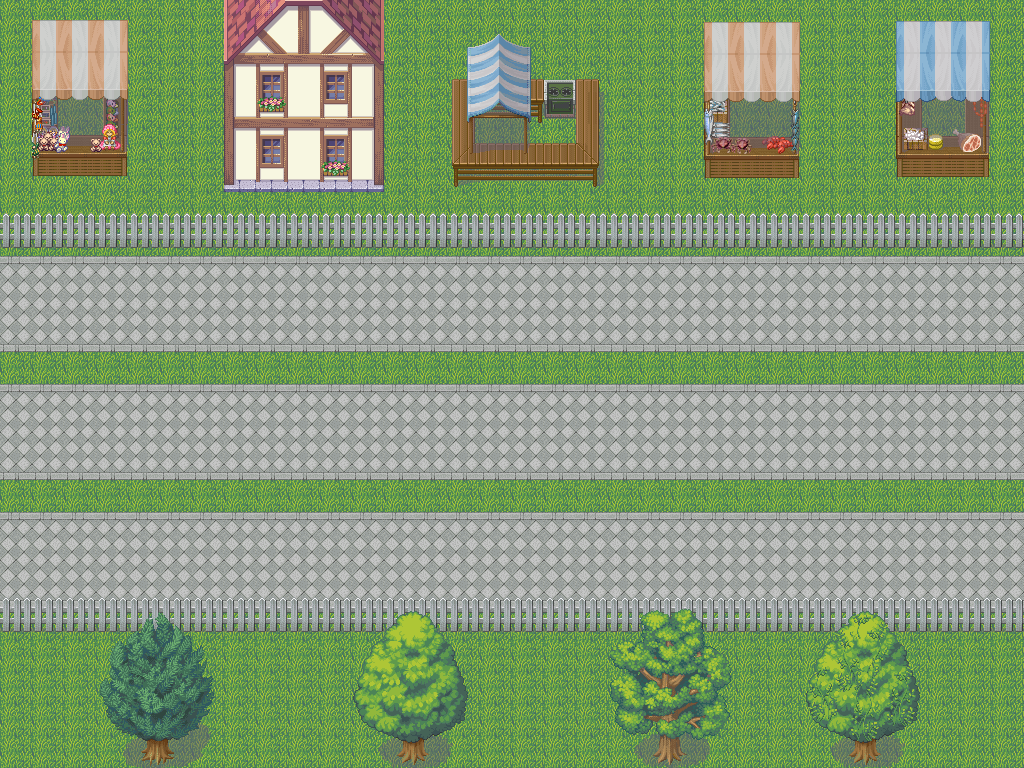
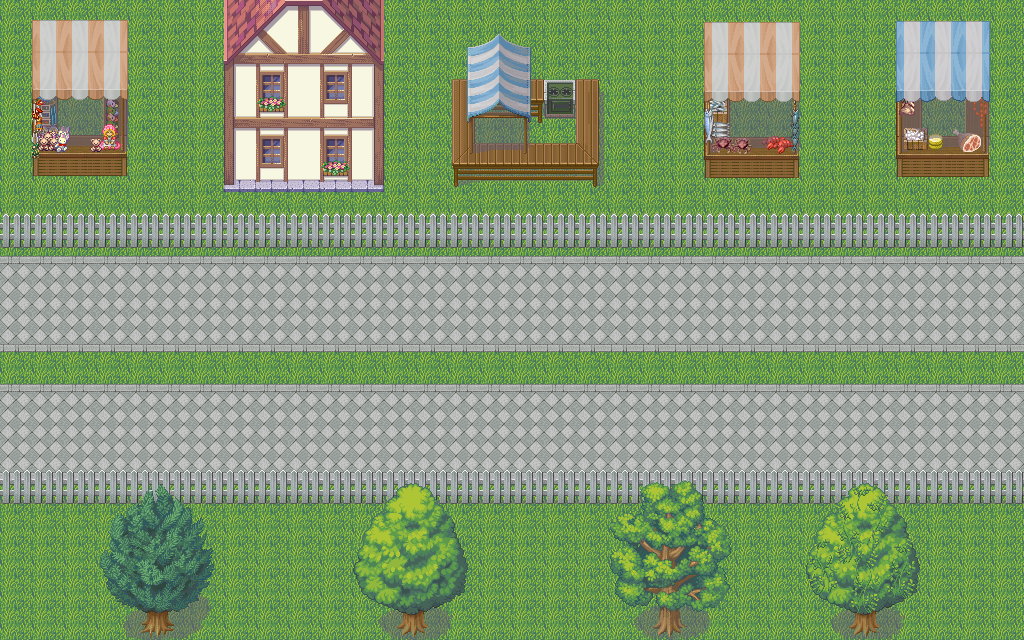
Change background size
Three players to two players.

diff --git a/src/FrameRacingVehicle.java b/src/FrameRacingVehicle.java
@@ -7,7 +7,7 @@ import javax.swing.JPanel;
 public class FrameRacingVehicle extends JFrame
 {	
 	private static final int FRAME_INNER_WIDTH = 1024;
-	private static final int FRAME_INNER_HEIGHT = 768;
+	private static final int FRAME_INNER_HEIGHT = 640;
 	
 	private JPanel pnlBackground;
 	
